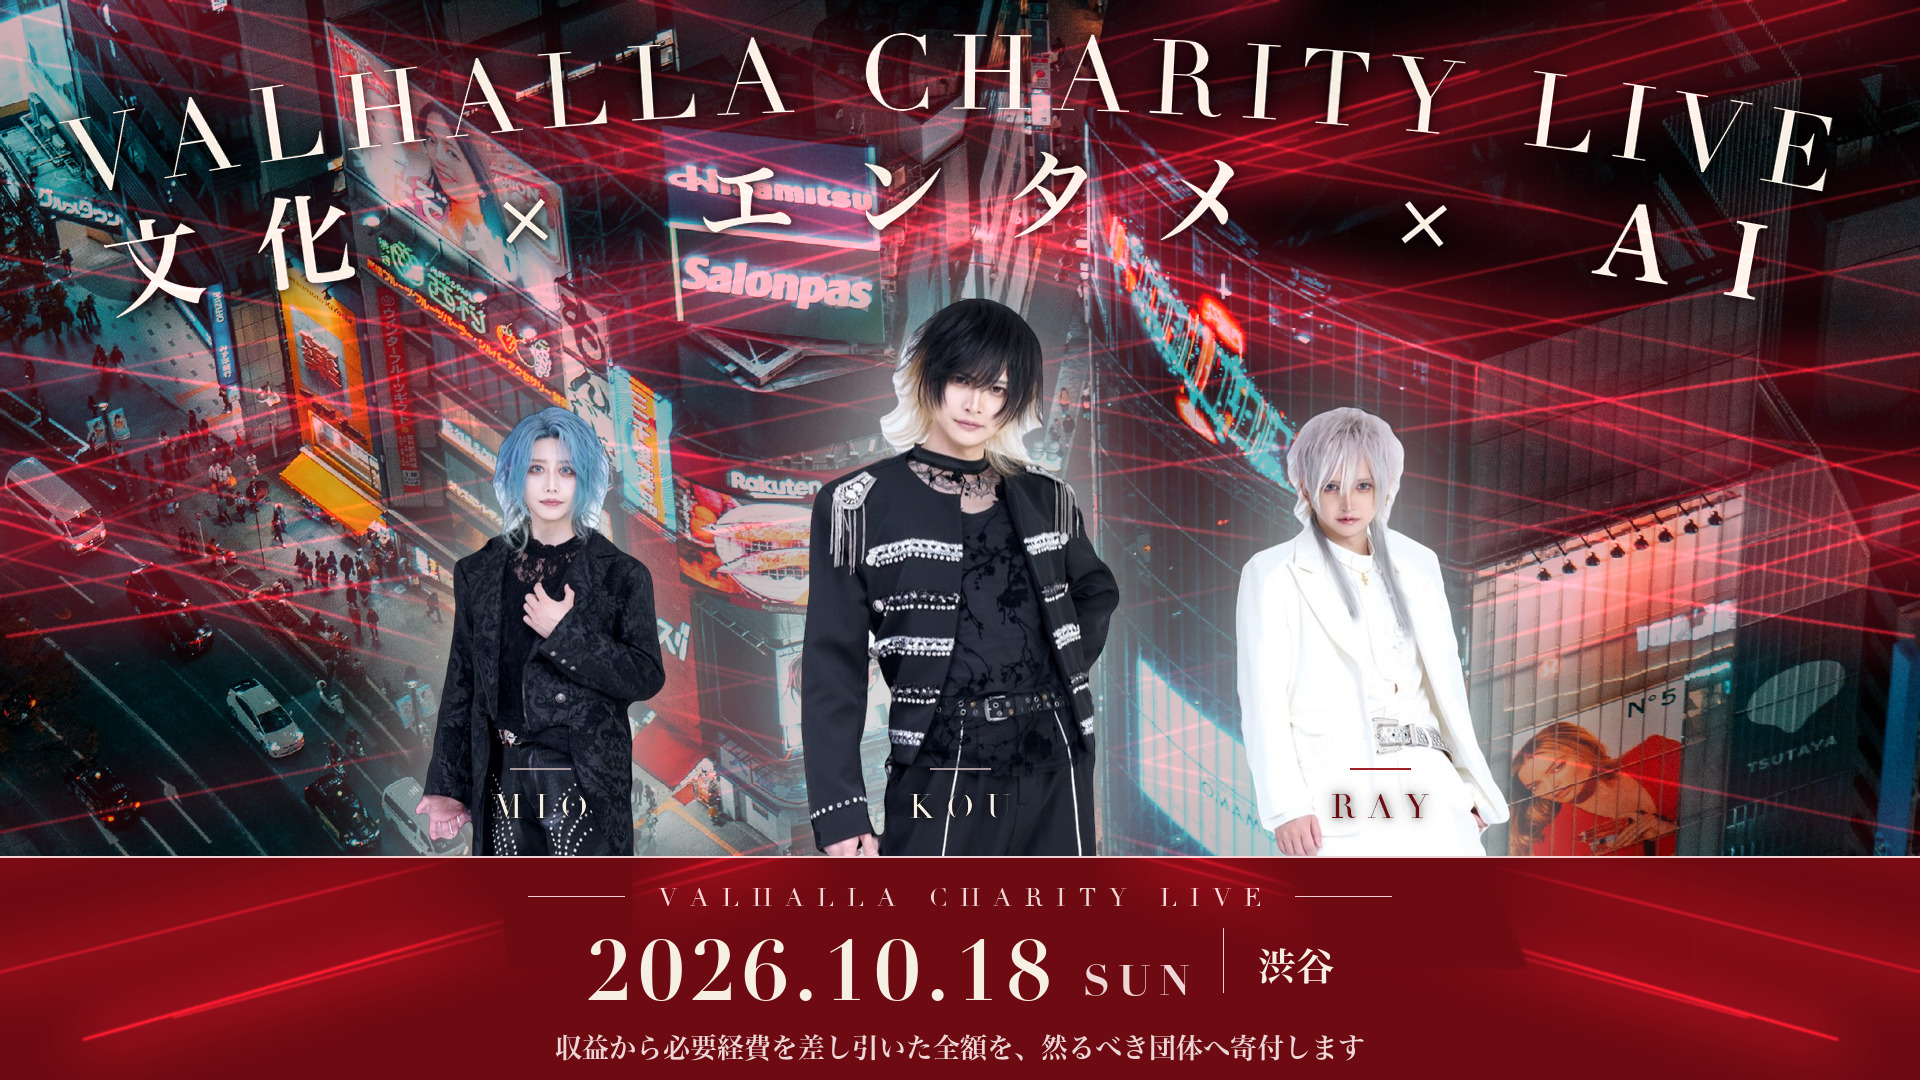
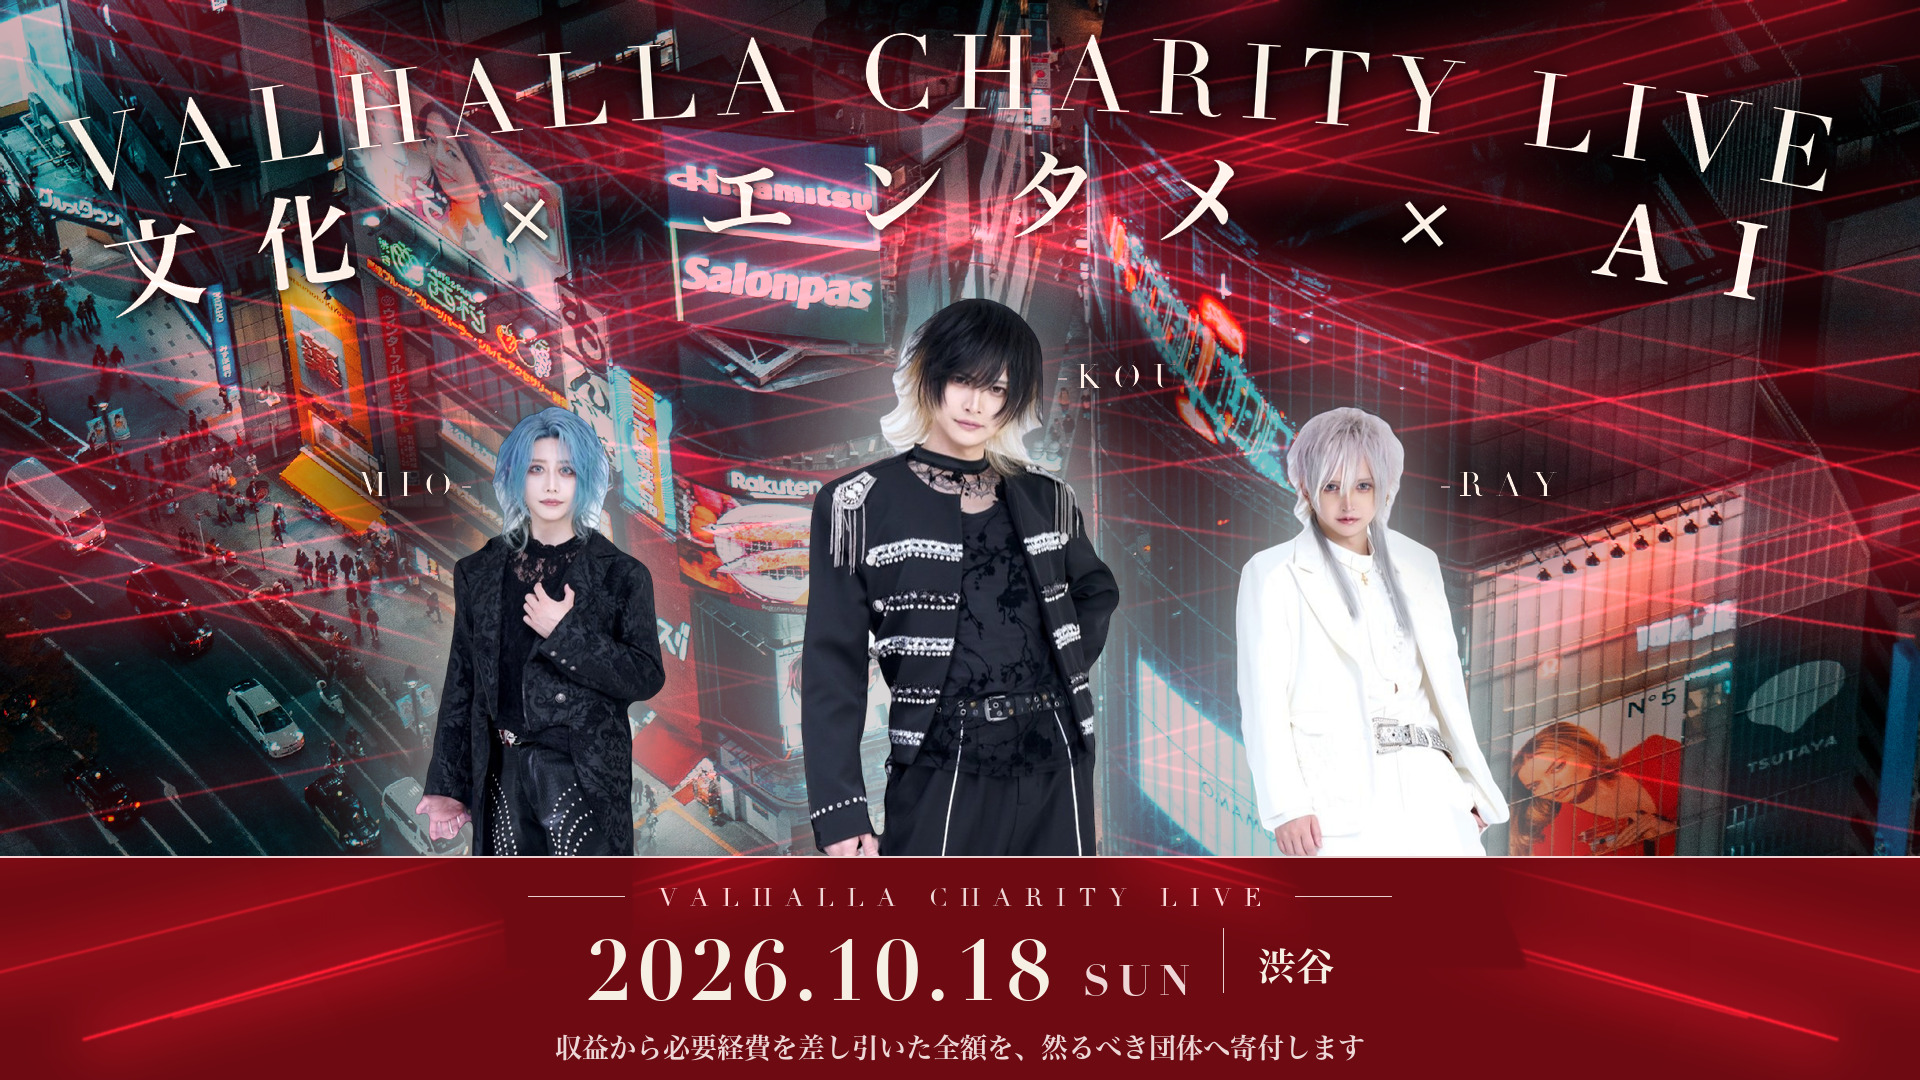
charity: move the names beside the faces, one colour for all three
On the clothing the labels needed two different colours to survive the
white suit. Beside the heads they all land on background, so a soft
blurred scrim under each one buys enough contrast for a single cream.
The build now fails if any label's ground measures brighter than 150.

diff --git a/assets/charity/create_flyer_wide.py b/assets/charity/create_flyer_wide.py
@@ -253,46 +253,82 @@ def paste_people(base: Image.Image, placed) -> None:
 
 
 def add_names(base: Image.Image, placed) -> None:
-    """3人の足元に、それぞれの名前をローマ字で置く。
+    """3人の顔の横に、それぞれの名前をローマ字で置く。
 
-    ここは白いスーツ（右）と黒い衣装（左・中央）が並ぶので、色を固定すると
-    どちらかで必ず消える。名前が乗る場所の明るさを実際に測り、
-    明るければ濃いクリムゾン、暗ければクリームに切り替える。
+    足元（衣装の上）に置くと、白いスーツと黒い衣装で必要な文字色が変わり、
+    3人の色を揃えられなかった。顔の横なら背景の上に乗るので色を統一できる。
+
+    ただし背景は渋谷の看板でネオンが明るい。文字の下にだけ、輪郭のない
+    楕円の影をぼかして敷き、そこを暗くしてからクリームで刷る。四角い板を
+    置くとチラシに見えるので、必ずぼかして境目を消すこと。
+
+    位置は決め打ちにせず、切り抜きのアルファから頭の天地と左右を毎回測る。
     """
+    d0 = ImageDraw.Draw(base)
+    f = face(DIDOT, 34)
+    gap = 30
+    sides = ("left", "right", "right")   # 左の人は左へ、中央と右は右へ逃がす
+    boxes = []
+
+    for (person, px, py), name, side in zip(placed, ("MIO", "KØU", "RAY"), sides):
+        alpha = person.getchannel("A")
+        bbox = alpha.getbbox()
+        if bbox is None:
+            continue
+        head_top = py + bbox[1]
+
+        # 頭の左右の端は、天辺から 140px ぶんの帯だけを見て測る（肩は含めない）
+        head = alpha.crop((0, bbox[1], person.width, min(person.height, bbox[1] + 140)))
+        hb = head.getbbox()
+        head_left = px + (hb[0] if hb else bbox[0])
+        head_right = px + (hb[2] if hb else bbox[2])
+
+        widths = [d0.textlength(c, font=f) for c in name]
+        total = sum(widths) + 12 * (len(name) - 1)
+        y = head_top + 58                                   # だいたい目の高さ
+        tx = (head_left - gap - total) if side == "left" else (head_right + gap)
+        boxes.append((name, widths, total, tx, y, side, head_left, head_right))
+
+    # ① 先に影だけを1枚の層で敷く（人物の上には出ないよう、幅は狭く）
+    scrim = Image.new("L", (W, H), 0)
+    sd = ImageDraw.Draw(scrim)
+    for _, _, total, tx, y, _, _, _ in boxes:
+        cx, cy = tx + total / 2, y + 22
+        sd.ellipse((cx - total * 0.78, cy - 62, cx + total * 0.78, cy + 62), fill=170)
+    scrim = scrim.filter(ImageFilter.GaussianBlur(38))
+    base.alpha_composite(Image.merge(
+        "RGBA", [Image.new("L", (W, H), v) for v in (7, 4, 7)] + [scrim]))
+
+    # ② そのうえに名前と、人物へつなぐ短い罫
     layer = Image.new("RGBA", (W, H), (0, 0, 0, 0))
     d = ImageDraw.Draw(layer)
-    f = face(DIDOT, 34)
     gray = base.convert("L")
+    for name, widths, total, tx, y, side, head_left, head_right in boxes:
+        patch = gray.crop((round(tx) - 10, y - 6, round(tx + total) + 10, y + 44))
+        mean = sum(patch.getdata()) / max(1, patch.width * patch.height)
+        if mean > 150:
+            raise RuntimeError(f"{name} の下地が明るすぎます（{mean:.0f}）")
 
-    y = 786
-    for (person, x, _), name in zip(placed, ("MIO", "KØU", "RAY")):
-        cx = x + person.width // 2
-        widths = [d.textlength(c, font=f) for c in name]
-        total = sum(widths) + 12 * (len(name) - 1)
-
-        patch = gray.crop((round(cx - total / 2) - 12, y - 6,
-                           round(cx + total / 2) + 12, y + 44))
-        light = sum(patch.getdata()) / max(1, patch.width * patch.height) > 150
-        fill = DEEPEST_CRIMSON + (255,) if light else CREAM + (255,)
-        halo = (250, 246, 240, 200) if light else (6, 3, 6, 215)
-
-        # 名前の上に短い罫を1本。人物と名前を視覚的に結びつける
-        rule = (150, 14, 24, 235) if light else (214, 188, 188, 200)
-        d.line((cx - 30, y - 18, cx + 30, y - 18), fill=rule, width=2)
+        ry = y + 22
+        if side == "left":
+            d.line((tx + total + 10, ry, head_left - 12, ry),
+                   fill=(214, 188, 188, 185), width=2)
+        else:
+            d.line((head_right + 12, ry, tx - 10, ry),
+                   fill=(214, 188, 188, 185), width=2)
 
         shade = Image.new("RGBA", (W, H), (0, 0, 0, 0))
-        sd = ImageDraw.Draw(shade)
-        tx = cx - total / 2
+        s2 = ImageDraw.Draw(shade)
+        cx = tx
         for c, w in zip(name, widths):
-            sd.text((tx, y), c, font=f, fill=halo)
-            tx += w + 12
+            s2.text((cx, y), c, font=f, fill=(6, 3, 6, 215))
+            cx += w + 12
         layer.alpha_composite(shade.filter(ImageFilter.GaussianBlur(7)))
-        layer.alpha_composite(shade.filter(ImageFilter.GaussianBlur(3)))
 
-        tx = cx - total / 2
+        cx = tx
         for c, w in zip(name, widths):
-            d.text((tx, y), c, font=f, fill=fill)
-            tx += w + 12
+            d.text((cx, y), c, font=f, fill=CREAM + (255,))
+            cx += w + 12
 
     base.alpha_composite(layer)
 
